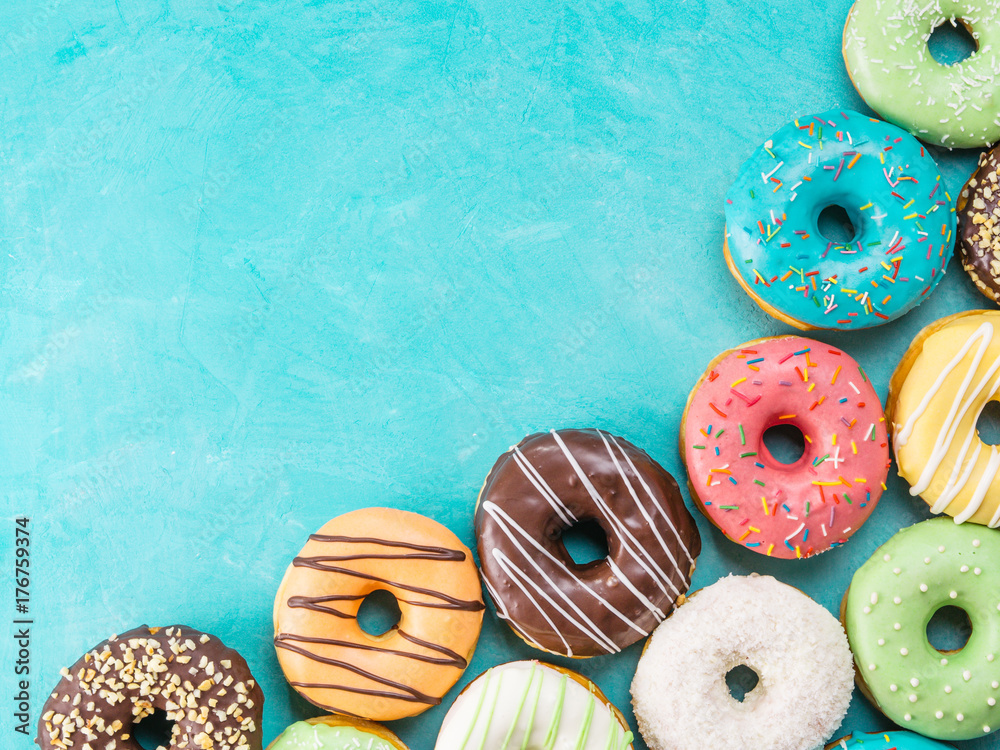
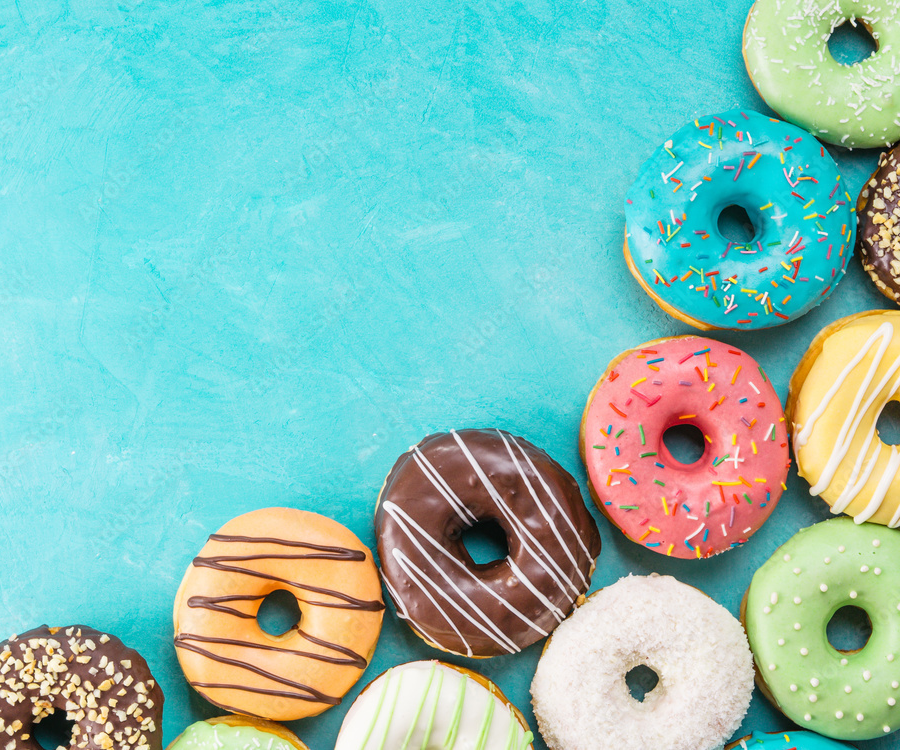
Fix about donut image, darken accents, and tidy repo
Crop Adobe Stock watermark from about-donuts.png; show photo-only
background on About with adjusted position. Darken site accent tokens
and about card borders. Remove obsolete navigation.yml and legacy
style.css; add README.md with local dev instructions.

diff --git a/assets/css/site.css b/assets/css/site.css
@@ -16,10 +16,10 @@
   --color-text-muted: #4a5568;
   --color-text-faint: #64748b;
 
-  --color-accent: #e63946;
-  --color-accent-hover: #c1121f;
-  --color-accent-soft: rgba(230, 57, 70, 0.14);
-  --color-accent-glow: rgba(255, 107, 74, 0.22);
+  --color-accent: #b91c1c;
+  --color-accent-hover: #7f1d1d;
+  --color-accent-soft: rgba(185, 28, 28, 0.14);
+  --color-accent-glow: rgba(127, 29, 29, 0.18);
   --color-focus: #2563eb;
 
   --color-header-bg: rgba(255, 255, 255, 0.92);
@@ -58,10 +58,10 @@
   --color-text-muted: #a8b4c4;
   --color-text-faint: #7a8799;
 
-  --color-accent: #ff6b4a;
-  --color-accent-hover: #ff8577;
-  --color-accent-soft: rgba(255, 107, 74, 0.18);
-  --color-accent-glow: rgba(255, 107, 74, 0.28);
+  --color-accent: #dc2626;
+  --color-accent-hover: #991b1b;
+  --color-accent-soft: rgba(220, 38, 38, 0.18);
+  --color-accent-glow: rgba(153, 27, 27, 0.22);
   --color-focus: #60a5fa;
 
   --color-header-bg: rgba(11, 15, 20, 0.94);
@@ -543,43 +543,30 @@ a:hover {
 
 /* About — donut photo background */
 body.page-about {
-  background-color: #9d0208;
-  background-image:
-    linear-gradient(
-      180deg,
-      rgba(230, 57, 70, 0.72) 0%,
-      rgba(193, 18, 31, 0.68) 45%,
-      rgba(157, 2, 8, 0.75) 100%
-    ),
-    url("/assets/images/about-donuts.png");
+  background-color: #0d9488;
+  background-image: url("/assets/images/about-donuts.png");
   background-size: cover;
-  background-position: center;
+  background-position: 42% center;
   background-attachment: fixed;
   background-repeat: no-repeat;
 }
 
 [data-theme="dark"] body.page-about {
-  background-color: #370617;
-  background-image:
-    linear-gradient(
-      180deg,
-      rgba(193, 18, 31, 0.78) 0%,
-      rgba(55, 6, 23, 0.82) 50%,
-      rgba(29, 4, 12, 0.88) 100%
-    ),
-    url("/assets/images/about-donuts.png");
+  background-color: #134e4a;
+  background-image: url("/assets/images/about-donuts.png");
+  background-position: 42% center;
 }
 
 body.page-about .site-main__inner {
   background: rgba(255, 255, 255, 0.86);
   backdrop-filter: blur(8px);
-  border: 1px solid rgba(230, 57, 70, 0.28);
-  box-shadow: 0 8px 32px rgba(193, 18, 31, 0.12);
+  border: 1px solid rgba(185, 28, 28, 0.28);
+  box-shadow: 0 8px 32px rgba(127, 29, 29, 0.14);
 }
 
 [data-theme="dark"] body.page-about .site-main__inner {
   background: rgba(18, 24, 32, 0.88);
-  border-color: rgba(255, 107, 74, 0.32);
+  border-color: rgba(220, 38, 38, 0.32);
   box-shadow: 0 8px 32px rgba(0, 0, 0, 0.35);
 }
 
@@ -588,7 +575,7 @@ body.page-about .favorite-food {
   background: rgba(255, 255, 255, 0.72);
   border-radius: var(--radius-md);
   padding: var(--space-lg);
-  border: 1px solid rgba(230, 57, 70, 0.35);
+  border: 1px solid rgba(185, 28, 28, 0.32);
   box-shadow: inset 0 1px 0 rgba(255, 255, 255, 0.4);
 }
 
@@ -599,7 +586,7 @@ body.page-about .page-section h2 {
 [data-theme="dark"] body.page-about .page-section,
 [data-theme="dark"] body.page-about .favorite-food {
   background: rgba(26, 34, 45, 0.78);
-  border-color: rgba(255, 107, 74, 0.38);
+  border-color: rgba(220, 38, 38, 0.36);
 }
 
 /* 404 — centered robotics message */

diff --git a/README.md b/README.md
@@ -1,0 +1,20 @@
+# 3324Z — Circuit BreakerZ
+
+Jekyll site for VEX robotics team **3324Z**. Live at [3324z.com](https://3324z.com) (GitHub Pages).
+
+## Local development
+
+```bash
+bundle install
+bundle exec jekyll serve
+```
+
+Open [http://127.0.0.1:4000](http://127.0.0.1:4000). Navigation and site data live under `_data/`. Main styles are in `assets/css/site.css`.
+
+## Build
+
+```bash
+bundle exec jekyll build
+```
+
+Output is written to `_site/`.
